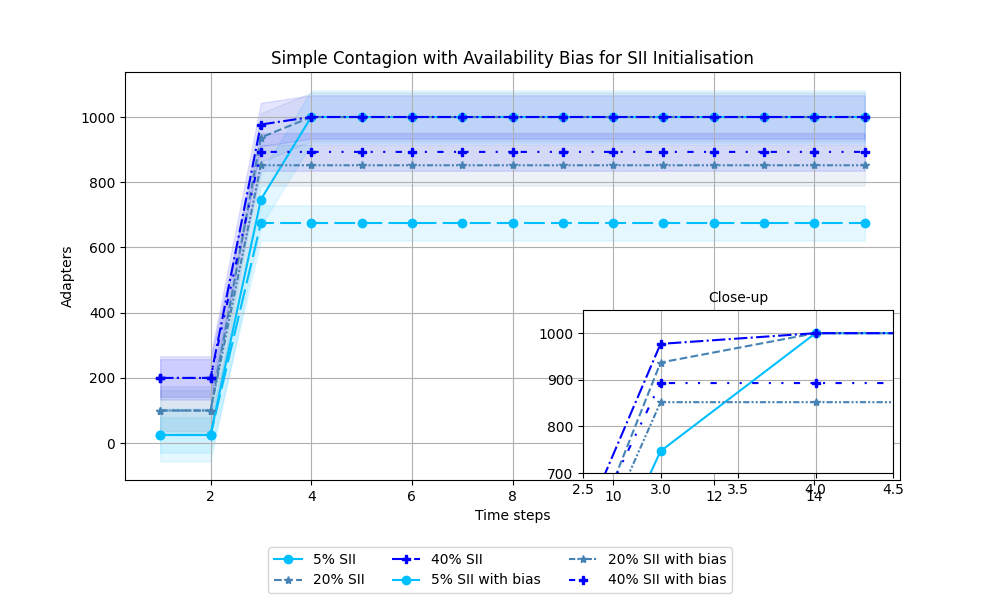
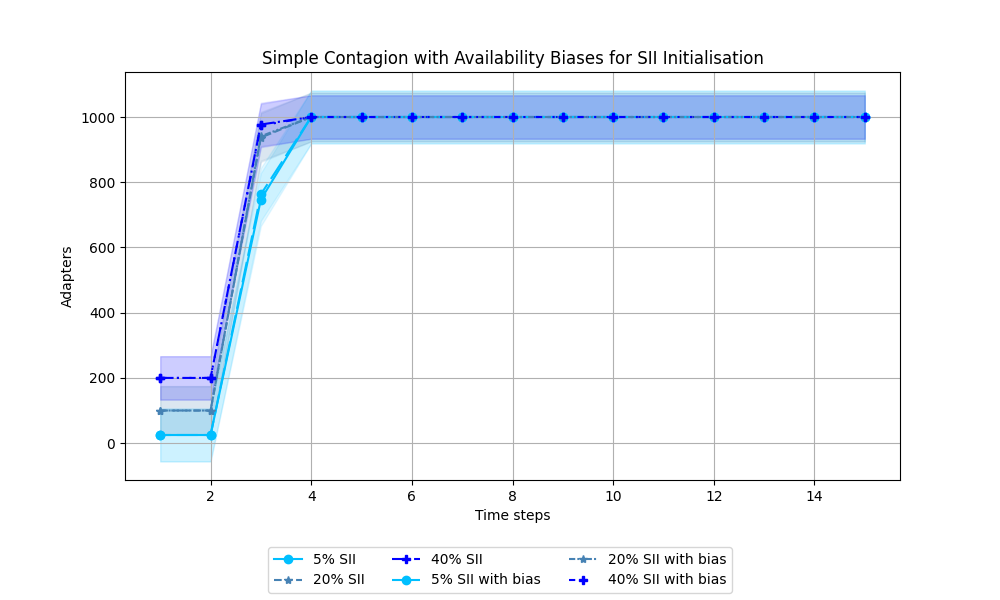
redone SS for cognitive bias

diff --git a/agent-based-basic/after_simluation_plots.py b/agent-based-basic/after_simluation_plots.py
@@ -60,26 +60,16 @@ titles = [
     'Complex contagion with Initialization with attribute'
 ]
 
-file_names = [
-    "random-adapters-comparison.png",   #0
-    "random-adapters-with-cognitive-bias.png",#1
-    "random-adapters-with-social-bias.png",#2
-    "adapters-with-SI-comparison.png",#3
-    "adapters-with-SI-with-cognitive-bias.png",#4
-    "adapters-with-SI-with-social-bias.png",#5
-    "would-subscribe-attribute-with-cognitive-bias.png",#6
-    "would-subscribe-attribute-with-social-bias.png",#7
-]
 # plots multiple simulations on the same plot
 # simulations indicates the evolution of the number of adapters in the networks
-def plot_multiple_adapters_by_time(confidence=0.95, close_up=True):
+def plot_multiple_adapters_by_time(confidence=0.95, close_up=False):
     plots = {
-    labels[3][0]: {1: 50, 2: 50, 3: 919, 4: 1000, 5: 1000, 6: 1000, 7: 1000, 8: 1000, 9: 1000, 10: 1000, 11: 1000, 12: 1000, 13: 1000, 14: 1000, 15: 1000, },
-    labels[3][1]: {1: 200, 2: 200, 3: 991, 4: 1000, 5: 1000, 6: 1000, 7: 1000, 8: 1000, 9: 1000, 10: 1000, 11: 1000, 12: 1000, 13: 1000, 14: 1000, 15: 1000,},
-    labels[3][2]: {1: 400, 2: 400, 3: 999, 4: 1000, 5: 1000, 6: 1000, 7: 1000, 8: 1000, 9: 1000, 10: 1000, 11: 1000, 12: 1000, 13: 1000, 14: 1000, 15: 1000, },
-    labels[3][3]: {1: 50, 2: 50, 3: 925, 4: 1000, 5: 1000, 6: 1000, 7: 1000, 8: 1000, 9: 1000, 10: 1000, 11: 1000, 12: 1000, 13: 1000, 14: 1000, 15: 1000},
-    labels[3][4]: {1: 200, 2: 200, 3: 993, 4: 1000, 5: 1000, 6: 1000, 7: 1000, 8: 1000, 9: 1000, 10: 1000, 11: 1000, 12: 1000, 13: 1000, 14: 1000, 15: 1000},
-    labels[3][5]: {1: 400, 2: 400, 3: 998, 4: 1000, 5: 1000, 6: 1000, 7: 1000, 8: 1000, 9: 1000, 10: 1000, 11: 1000, 12: 1000, 13: 1000, 14: 1000, 15: 1000}
+    labels[5][0]: {1: 284, 2: 284, 3: 976, 4: 1000, 5: 1000, 6: 1000, 7: 1000, 8: 1000, 9: 1000, 10: 1000, 11: 1000, 12: 1000, 13: 1000, 14: 1000, 15: 1000,},
+    labels[5][1]: {1: 284, 2: 284, 3: 649, 4: 824, 5: 824, 6: 899, 7: 945, 8: 945, 9: 969, 10: 980, 11: 980, 12: 987, 13: 991, 14: 991, 15: 994},
+    # labels[4][2]: {1: 200, 2: 200, 3: 977, 4: 1000, 5: 1000, 6: 1000, 7: 1000, 8: 1000, 9: 1000, 10: 1000, 11: 1000, 12: 1000, 13: 1000, 14: 1000, 15: 1000,},
+    # labels[4][3]: {1: 25, 2: 25, 3: 763, 4: 1000, 5: 1000, 6: 1000, 7: 1000, 8: 1000, 9: 1000, 10: 1000, 11: 1000, 12: 1000, 13: 1000, 14: 1000, 15: 1000},
+    # labels[4][4]: {1: 100, 2: 100, 3: 941, 4: 1000, 5: 1000, 6: 1000, 7: 1000, 8: 1000, 9: 1000, 10: 1000, 11: 1000, 12: 1000, 13: 1000, 14: 1000, 15: 1000},
+    # labels[4][5]: {1: 200, 2: 200, 3: 974, 4: 1000, 5: 1000, 6: 1000, 7: 1000, 8: 1000, 9: 1000, 10: 1000, 11: 1000, 12: 1000, 13: 1000, 14: 1000, 15: 1000}
     #labels[2][6]: {1: 284, 2: 284, 3: 355, 4: 355, 5: 355, 6: 355, 7: 355, 8: 355, 9: 355, 10: 355, 11: 355, 12: 355, 13: 355, 14: 355, 15: 355,}
     }
     slopes=[]
@@ -89,12 +79,12 @@ def plot_multiple_adapters_by_time(confidence=0.95, close_up=True):
     plt.ylabel('Adapters')
 
     plt.title("Simple Contagion " #with Beta Distribution (Society with almost uniformly distributed agents)\n"
-              "with Availability Biases for RI Initialisation"
+              "with Confirmation Biases for WSI Initialisation"
               )
     plt.grid(True)
 
     #colors = ['deeppink', 'orchid', 'mediumvioletred', 'deepskyblue', 'steelblue', 'blue', 'forestgreen', 'darkgreen',]
-    colors = ['deeppink', 'orchid', 'mediumvioletred','deeppink', 'orchid', 'mediumvioletred',]
+    colors = ['forestgreen', 'darkgreen', 'deepskyblue', 'steelblue', 'blue', 'deepskyblue', 'steelblue', 'blue', ]
     linestyle = ['solid', 'dashed', 'dashdot', (5, (10, 3)) , (0, (3, 1, 1, 1, 1, 1)), (0, (3, 5, 1, 5, 1, 5)), "dashdot"]
     markers = ["o", "*", "P", "o", "*", "P"]
     #markers=["","","","","","","",""]
@@ -120,13 +110,13 @@ def plot_multiple_adapters_by_time(confidence=0.95, close_up=True):
     print("here")
     if close_up:
         inset_ax.set_xlim(2.5, 4.5)
-        inset_ax.set_ylim(850, 1050)
+        inset_ax.set_ylim(950, 1020)
         inset_ax.set_title("Close-up", fontsize=10)
         inset_ax.grid(True)
 
     plt.savefig(
         f"./work/case-scenarios/SIMPLE_CONTAGION/"#COMPLEX_CONTAGION/BETA-DISTRIBUTION/QUASI-NORMAL-DISTRIBUTION/"
-        +"simple_contagion_RI_availability_bias.png")
+        +"simple_contagion_WSI_confirmation_bias.png")
 
 # plots the heat map representing the vector labels.txt changing in a specific time step during a simulation
 def states_changing_heat_map(states, vector_labels, step):
